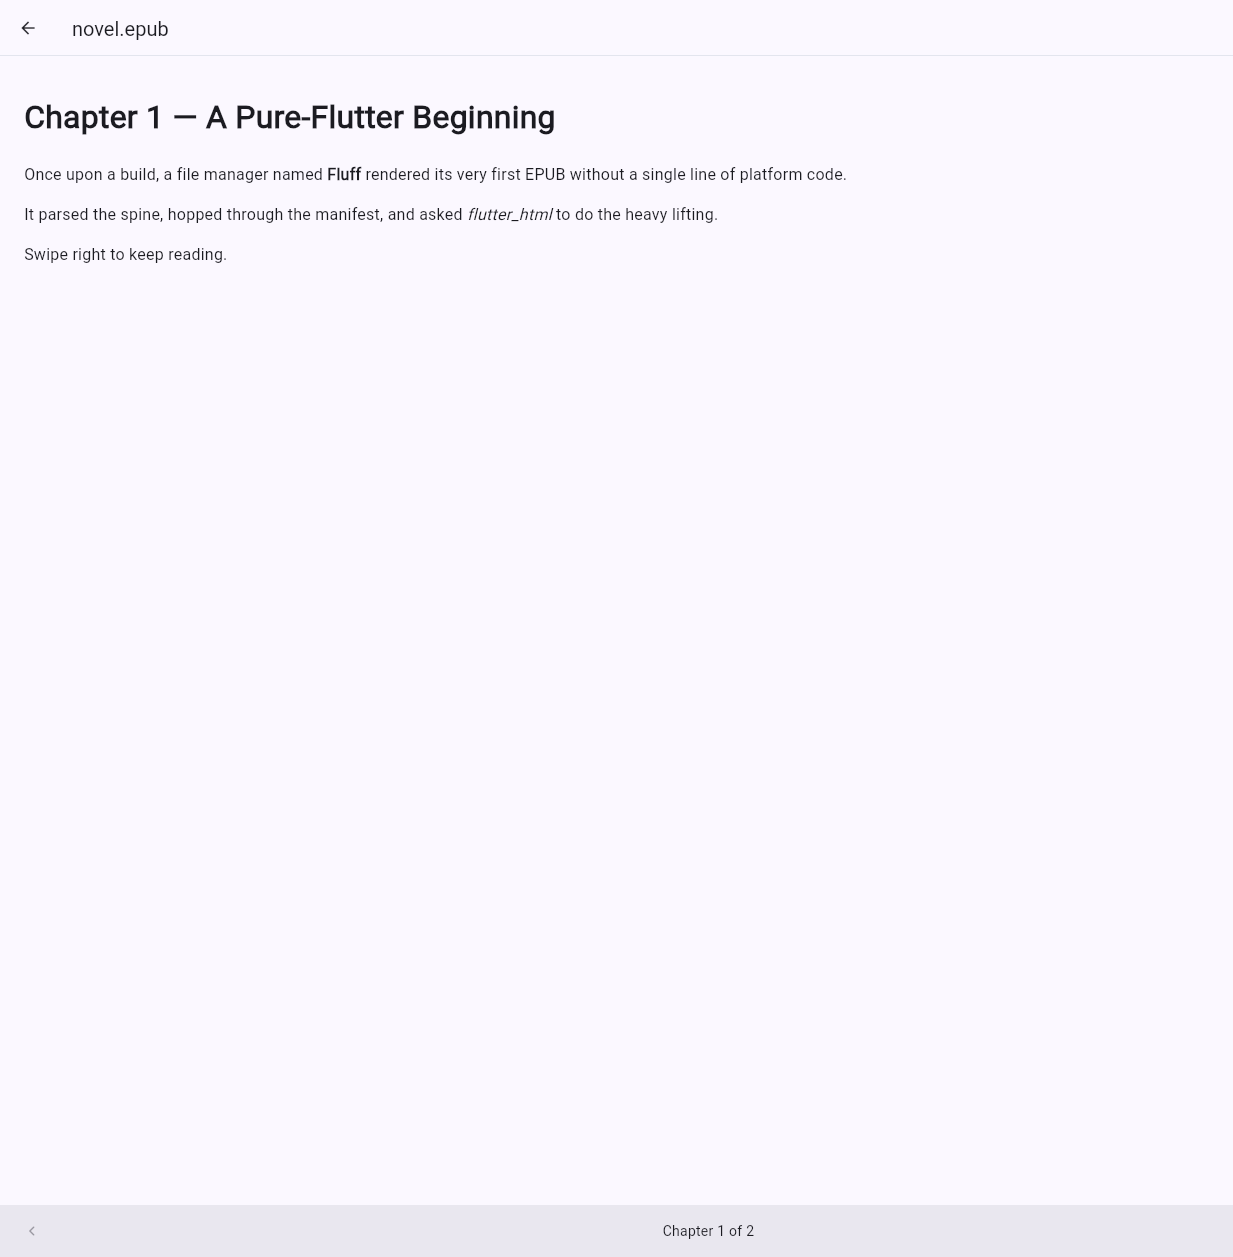
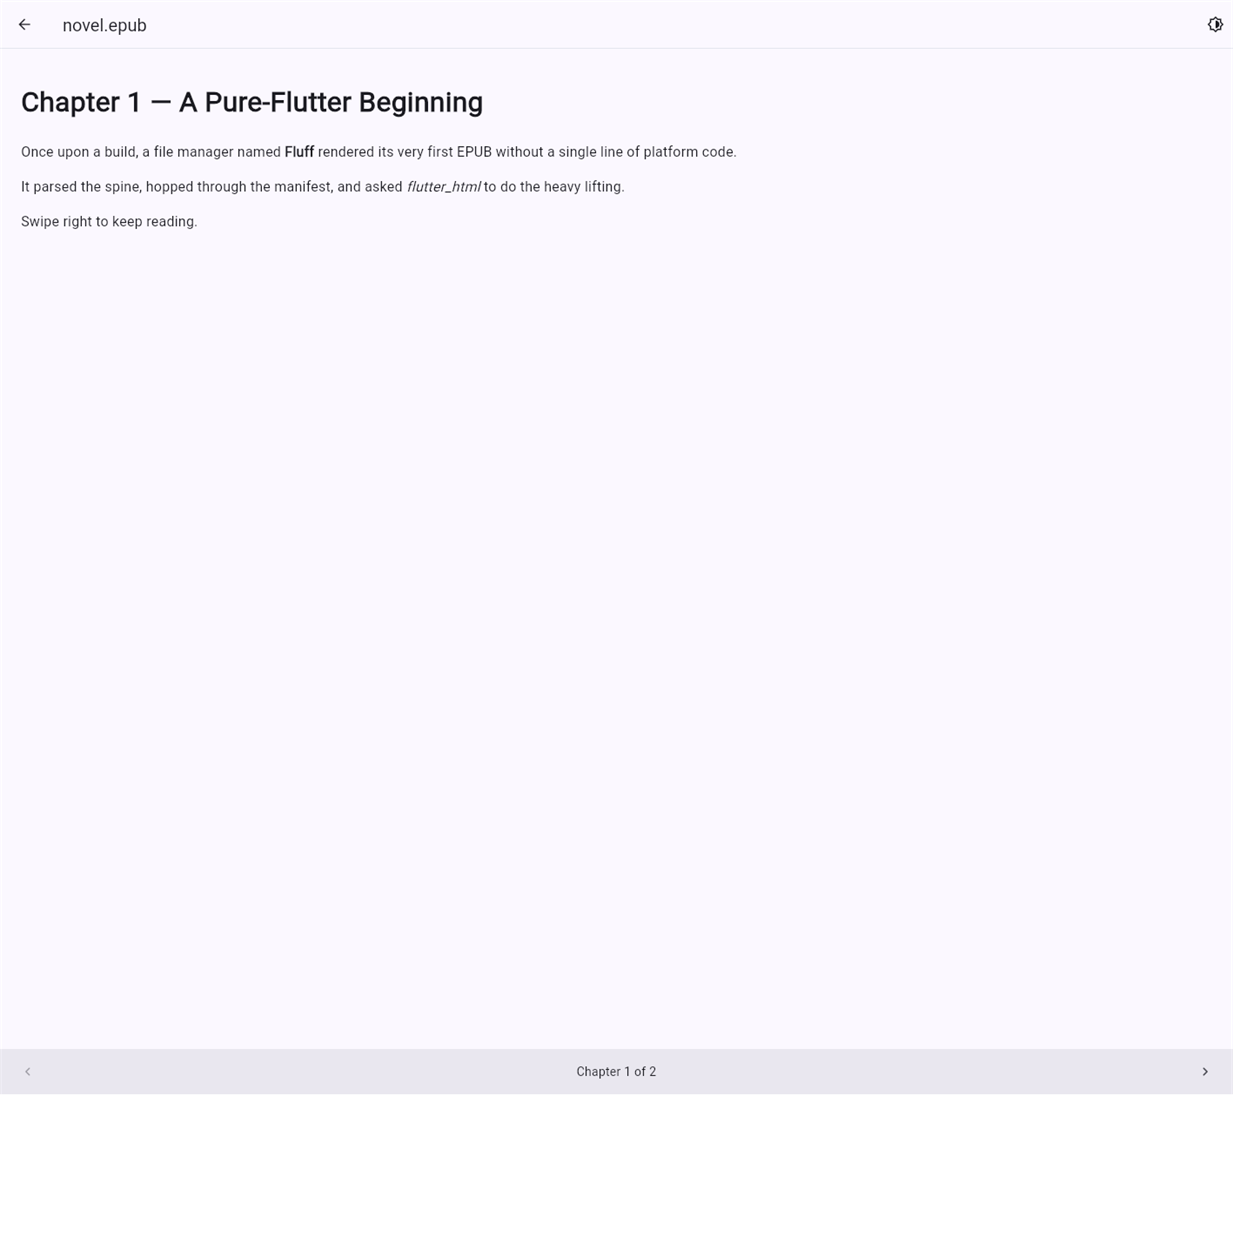
fix(app): playable demo MP4 + uncropped viewer screenshots
- MemFsProvider.demo() seeds a real 2s 320x180 H.264 MP4 for /Videos/clip.mp4 (ffmpeg-generated, 2094 bytes, base64-embedded in _demoMp4Bytes). video_player now mounts real controls instead of decode-erroring.

- Re-captures viewer-{pdf,ebook,audio,video}-{light,dark}.png at the full 1417x1257 Flutter render then scales down to the canonical 1233x1257 so the AppBar's right-side actions (brightness toggle, share, open-with) are no longer clipped on the right edge.

diff --git a/packages/fluff_vfs/lib/src/mem_fs_provider.dart b/packages/fluff_vfs/lib/src/mem_fs_provider.dart
@@ -106,7 +106,7 @@ class MemFsProvider implements FsProvider {
       .._putBytes('/Downloads/photos.zip', _demoZipBytes(), now)
       .._putBytes('/Music/track-01.wav', _demoWavBytes(), now)
       .._putBytes('/Music/track-02.flac', apkLike, now)
-      .._putBytes('/Videos/clip.mp4', apkLike, now)
+      .._putBytes('/Videos/clip.mp4', _demoMp4Bytes(), now)
       .._putBytes('/Documents/manual.pdf', _demoPdfBytes(), now)
       .._putBytes('/Books/novel.epub', _demoEpubBytes(), now);
     return p;
@@ -465,4 +465,47 @@ Uint8List _demoEpubBytes() {
     ..addFile(ArchiveFile.bytes('OEBPS/chapter1.xhtml', bytes(ch1)))
     ..addFile(ArchiveFile.bytes('OEBPS/chapter2.xhtml', bytes(ch2)));
   return Uint8List.fromList(ZipEncoder().encode(archive));
+}
+
+/// Tiny 2-second 320x180 H.264 / MP4 of solid Material purple,
+Uint8List _demoMp4Bytes() {
+  const b64 =
[2 lines of base64/hex data omitted]
+      'AABAAAAAAAAAAAAAAAAAAAAAAAAAAAAAAAAAAAAAAAAAAgAAAsV0cmFrAAAAXHRraGQAAAADAAAA'
+      'AAAAAAAAAAABAAAAAAAAB9AAAAAAAAAAAAAAAAAAAAAAAAEAAAAAAAAAAAAAAAAAAAABAAAAAAAA'
[4 lines of base64/hex data omitted]
+      'AQAAAKhhdmMxAAAAAAAAAAEAAAAAAAAAAAAAAAAAAAAAAUAAtABIAAAASAAAAAAAAAABFUxhdmM2'
[1 lines of base64/hex data omitted]
+      'AAADAEAAAAeDxQqoAQAEaM4PyAAAABBwYXNwAAAAAQAAAAEAAAAUYnRydAAAAAAAABGMAAAAAAAA'
[1 lines of base64/hex data omitted]
+      'AQAAAAEAAAAeAAAAAQAAAIxzdHN6AAAAAAAAAAAAAAAeAAADJAAAAAsAAAALAAAACwAAAAsAAAAL'
+      'AAAACwAAAAsAAAALAAAACwAAAAsAAAALAAAACwAAAAsAAAALAAAACwAAAAsAAAALAAAACwAAAAsA'
[15 lines of base64/hex data omitted]
+      'rrrrrrrrrrrrrrrrrrrrrrrrrrrrrrrrrrrrrrrrrrrrrrrrrrrrrrrrrrrrrrrrrrrrrrrrrrrr'
+      'rrrrrrrrrrrrrrrrrrrrrrrrrrrrrrrrrrrrrrrrrrrrrrrrrrrrrrrrrrrrrrrrrrrrrrrrrrrr'
[5 lines of base64/hex data omitted]
+      'AAdBm0A2gHjAAAAAB0GbYDaAeMAAAAAHQZuANoB4wAAAAAdBm6A2gHjA';
+  return base64Decode(b64);
 }
